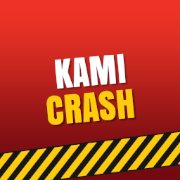
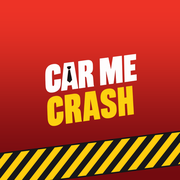
CARME crash: the site under the game's new name
The game is now CARME crash: the name, the title and the new icon on every
page. Photos are the faces of the driver and the salesman beside them now,
not the posts and the roof, and the pages say so; the privacy policy also
covers saved videos. The photo rules page goes up with it.

diff --git a/rules.html b/rules.html
@@ -1,0 +1,129 @@
+<!doctype html>
+<html lang="zh-Hant-TW">
+<head>
+  <meta charset="utf-8">
+  <meta name="viewport" content="width=device-width, initial-scale=1">
+  <title>照片使用規範 Photo Rules — CARME crash</title>
+  <meta name="description" content="CARME crash 的照片使用規範：只放你有權使用的照片，不放裸露、暴力、仇恨或未經同意的他人照片。Photo rules of CARME crash.">
+  <meta name="theme-color" content="#121215">
+  <link rel="icon" type="image/png" href="assets/icon-64.png">
+  <link rel="apple-touch-icon" href="assets/icon-180.png">
+  <link rel="preconnect" href="https://fonts.googleapis.com">
+  <link rel="preconnect" href="https://fonts.gstatic.com" crossorigin>
+  <link href="https://fonts.googleapis.com/css2?family=Anton&family=Noto+Sans+TC:wght@400;700;900&display=swap" rel="stylesheet">
+  <link rel="stylesheet" href="styles.css">
+</head>
+<body>
+
+  <div class="hazard" aria-hidden="true"></div>
+
+  <header class="bar">
+    <div class="wrap">
+      <a class="brand" href="./"><img src="assets/icon-180.png" alt="">CARME <span>crash</span></a>
+      <nav class="links">
+        <a class="optional" href="./">首頁</a>
+        <a href="rules.html" aria-current="page">使用規範</a>
+        <a href="privacy.html">隱私權政策</a>
+      </nav>
+    </div>
+  </header>
+
+  <main class="doc">
+
+    <h1>照片使用規範<br>Photo Rules</h1>
+    <p class="meta">生效日期：2026 年 10 月 5 日 · Effective 5 October 2026</p>
+
+    <nav class="langs" aria-label="語言 Language">
+      <a href="#zh">中文</a>
+      <a href="#en">English</a>
+    </nav>
+
+    <article id="zh" lang="zh-Hant-TW">
+
+      <p>CARME crash（以下稱「本遊戲」）讓你把照片當成車上主駕和副駕業務的臉，再把撞擊的過程做成圖片或影片。為了讓大家玩得開心，又不傷害任何人，請遵守下面的規範。第一次放照片之前，本遊戲會請你同意這些規範；之後隨時可以在「設定 &gt; 照片使用規範」再看一次。</p>
+
+      <h3>可以放的照片</h3>
+      <p>你自己拍的照片、你自己的照片，或其他你有權使用的圖片，例如取得本人同意的照片、授權允許你使用的圖片。</p>
+
+      <h3>不可以放的照片</h3>
+      <ul>
+        <li>裸露、色情或帶有性暗示的照片</li>
+        <li>任何涉及未成年人的不當內容</li>
+        <li>暴力、血腥、仇恨或歧視的內容</li>
+        <li>未經本人同意的他人照片</li>
+        <li>用來霸凌、騷擾、威脅或羞辱他人的照片</li>
+        <li>侵害他人著作權、肖像權或隱私的圖片</li>
+        <li>其他違反你所在地法律的內容</li>
+      </ul>
+
+      <h3>照片放在哪裡</h3>
+      <p>照片只在你的手機上處理，存在本遊戲自己的儲存空間，不會上傳到我們的伺服器，我們也看不到。你可以隨時在遊戲裡把照片拿掉。詳見<a href="privacy.html">隱私權政策</a>。</p>
+
+      <h3>分享的內容由你負責</h3>
+      <p>本遊戲做出的圖片和影片，只有在你按下儲存或分享時才會離開遊戲。要不要分享、分享到哪裡由你決定。分享出去的內容由你自己負責，請遵守法律和各平台的社群規範。</p>
+
+      <h3>違反規範</h3>
+      <p>違反本規範所引起的糾紛或損害，由放照片和分享內容的使用者自行負責。如果你發現有人用本遊戲做出的圖片或影片騷擾或傷害你，請直接向刊登該內容的平台檢舉；需要協助時，也可以寫信給我們。</p>
+
+      <h3>規範變更</h3>
+      <p>本規範如有變更，會更新本頁並修改上方的生效日期；有重大變更時，本遊戲會請你重新同意。</p>
+
+      <h3>聯絡我們</h3>
+      <p><a href="mailto:timsucompany@gmail.com">timsucompany@gmail.com</a></p>
+
+    </article>
+
+    <hr>
+
+    <article id="en" lang="en">
+
+      <h2>English</h2>
+
+      <p>CARME crash (the "Game") lets you put photos on the faces of the driver and the salesman in the car, and turn the crash into pictures and videos. To keep it fun without hurting anyone, please follow these rules. The Game asks you to agree to them before you add your first photo; you can read them again at any time under Settings &gt; Photo rules.</p>
+
+      <h3>Photos you may use</h3>
+      <p>Photos you took, photos of yourself, or other pictures you have the right to use, such as photos of people who agreed to it, or pictures licensed for your use.</p>
+
+      <h3>Photos you may not use</h3>
+      <ul>
+        <li>Nudity, pornography or sexually suggestive photos</li>
+        <li>Any inappropriate content involving minors</li>
+        <li>Violent, gory, hateful or discriminatory content</li>
+        <li>Photos of other people without their consent</li>
+        <li>Photos meant to bully, harass, threaten or humiliate anyone</li>
+        <li>Pictures that infringe anyone's copyright, image rights or privacy</li>
+        <li>Anything else that breaks the law where you live</li>
+      </ul>
+
+      <h3>Where your photos stay</h3>
+      <p>Photos are processed only on your device and kept in the Game's own storage. They are not uploaded to our servers and we cannot see them. You can remove them in the Game at any time. See the <a href="privacy.html#en">Privacy Policy</a>.</p>
+
+      <h3>You are responsible for what you share</h3>
+      <p>Pictures and videos made by the Game leave it only when you tap Save or Share, and you decide whether and where to share them. You are responsible for what you share; please follow the law and each platform's community guidelines.</p>
+
+      <h3>Breaking the rules</h3>
+      <p>Users who add photos or share content in breach of these rules are responsible for any dispute or harm that results. If someone uses pictures or videos made with the Game to harass or hurt you, please report it to the platform where it was posted; you can also write to us for help.</p>
+
+      <h3>Changes</h3>
+      <p>If these rules change, this page will be updated and the effective date above changed; after a significant change the Game will ask you to agree again.</p>
+
+      <h3>Contact</h3>
+      <p><a href="mailto:timsucompany@gmail.com">timsucompany@gmail.com</a></p>
+
+    </article>
+
+  </main>
+
+  <footer>
+    <div class="wrap">
+      <span>© 2026 timsucompany · CARME crash</span>
+      <nav>
+        <a href="./">首頁 Home</a>
+        <a href="privacy.html">隱私權政策 Privacy Policy</a>
+        <a href="mailto:timsucompany@gmail.com">聯絡我們 Contact</a>
+      </nav>
+    </div>
+  </footer>
+
+</body>
+</html>

diff --git a/index.html b/index.html
@@ -3,11 +3,11 @@
 <head>
   <meta charset="utf-8">
   <meta name="viewport" content="width=device-width, initial-scale=1">
-  <title>KAMI crash — 15 秒把車撞到最爛</title>
-  <meta name="description" content="KAMI crash：15 秒內把車撞得越爛越好。放上照片、衝向柱子，再把戰果分享給朋友。Wreck the car as hard as you can in 15 seconds.">
+  <title>CARME crash — 15 秒把車撞到最爛</title>
+  <meta name="description" content="CARME crash：試駕新車，15 秒內把它撞得越爛越好。把你和朋友的臉放上車，再把戰果分享給朋友。Take the new car for a test drive and wreck it as hard as you can in 15 seconds.">
   <meta name="theme-color" content="#121215">
   <meta property="og:type" content="website">
-  <meta property="og:title" content="KAMI crash">
+  <meta property="og:title" content="CARME crash">
   <meta property="og:description" content="15 秒內把車撞得越爛越好。Wreck the car as hard as you can in 15 seconds.">
   <link rel="icon" type="image/png" href="assets/icon-64.png">
   <link rel="apple-touch-icon" href="assets/icon-180.png">
@@ -22,10 +22,11 @@
 
   <header class="bar">
     <div class="wrap">
-      <a class="brand" href="./"><img src="assets/icon-180.png" alt="">KAMI <span>crash</span></a>
+      <a class="brand" href="./"><img src="assets/icon-180.png" alt="">CARME <span>crash</span></a>
       <nav class="links">
         <a class="optional" href="#features">特色</a>
         <a class="optional" href="#share">分享</a>
+        <a href="rules.html">使用規範</a>
         <a href="privacy.html">隱私權政策</a>
       </nav>
     </div>
@@ -35,7 +36,7 @@
 
     <div class="wrap hero">
       <div>
-        <h1 class="title">Kami<span>Crash</span></h1>
+        <h1 class="title">Carme<span>Crash</span></h1>
         <p class="tagline">15 秒內，把車撞得越爛越好。</p>
         <p class="tagline-en">Wreck the car as hard as you can in 15 seconds.</p>
         <div class="stores">
@@ -68,9 +69,9 @@
           </article>
           <article class="card">
             <div class="mark">03</div>
-            <h3>放上你的照片</h3>
-            <p>車頂貼自己，柱子貼上想撞的照片，然後油門踩到底。</p>
-            <span class="en">Your photos on the car and the posts</span>
+            <h3>放上你們的臉</h3>
+            <p>主駕放你自己，副駕的業務放朋友或寵物的臉，然後油門踩到底。車撞爛了？業務也只能說：賀成交！</p>
+            <span class="en">Your face at the wheel, a friend's on the salesman</span>
           </article>
           <article class="card">
             <div class="mark">04</div>
@@ -88,7 +89,7 @@
         <p class="lead">每一局都能做成三種圖，選一張存到相簿，傳給朋友看你撞了幾 %。</p>
         <div class="looks">
           <figure>
-            <img src="assets/shot-original.jpg" alt="原圖樣式：撞爛的車，角落有 KAMI CRASH 字樣" loading="lazy" width="1280" height="720">
+            <img src="assets/shot-original.jpg" alt="原圖樣式：撞爛的車，角落有遊戲標誌" loading="lazy" width="1280" height="720">
             <figcaption>原圖<small>Original</small></figcaption>
           </figure>
           <figure>
@@ -96,7 +97,7 @@
             <figcaption>濾鏡<small>Film filter with a stamp</small></figcaption>
           </figure>
           <figure>
-            <img src="assets/shot-poster.jpg" alt="海報樣式：KAMI CRASH 標題、撞爛的車、兩張拍立得照片和大大的損壞百分比" loading="lazy" width="864" height="1080">
+            <img src="assets/shot-poster.jpg" alt="海報樣式：遊戲標題、撞爛的車、兩張拍立得照片和大大的損壞百分比" loading="lazy" width="864" height="1080">
             <figcaption>海報<small>Poster</small></figcaption>
           </figure>
         </div>
@@ -108,7 +109,7 @@
         <h2>怎麼玩</h2>
         <p class="lead">簡單到一隻手就能玩。</p>
         <div class="steps">
-          <div class="step"><h3>放上照片</h3><p>車頂和柱子各放一張，也可以略過。</p></div>
+          <div class="step"><h3>放上照片</h3><p>主駕和副駕業務的臉各放一張，也可以略過。</p></div>
           <div class="step"><h3>15 秒撞爛它</h3><p>加速、甩尾、撞上去，能撞多爛就撞多爛。</p></div>
           <div class="step"><h3>看世界排名、分數、分享</h3><p>損壞百分比就是分數，和全世界比排名，破紀錄就存圖炫耀。</p></div>
         </div>
@@ -119,8 +120,9 @@
 
   <footer>
     <div class="wrap">
-      <span>© 2026 timsucompany · KAMI crash</span>
+      <span>© 2026 timsucompany · CARME crash</span>
       <nav>
+        <a href="rules.html">使用規範 Photo Rules</a>
         <a href="privacy.html">隱私權政策 Privacy Policy</a>
         <a href="mailto:timsucompany@gmail.com">聯絡我們 Contact</a>
       </nav>

diff --git a/privacy.html b/privacy.html
@@ -3,8 +3,8 @@
 <head>
   <meta charset="utf-8">
   <meta name="viewport" content="width=device-width, initial-scale=1">
-  <title>隱私權政策 Privacy Policy — KAMI crash</title>
-  <meta name="description" content="KAMI crash 的隱私權政策：照片只留在你的手機上；廣告由 Google AdMob 提供。Privacy policy of KAMI crash.">
+  <title>隱私權政策 Privacy Policy — CARME crash</title>
+  <meta name="description" content="CARME crash 的隱私權政策：照片只留在你的手機上；廣告由 Google AdMob 提供。Privacy policy of CARME crash.">
   <meta name="theme-color" content="#121215">
   <link rel="icon" type="image/png" href="assets/icon-64.png">
   <link rel="apple-touch-icon" href="assets/icon-180.png">
@@ -19,9 +19,10 @@
 
   <header class="bar">
     <div class="wrap">
-      <a class="brand" href="./"><img src="assets/icon-180.png" alt="">KAMI <span>crash</span></a>
+      <a class="brand" href="./"><img src="assets/icon-180.png" alt="">CARME <span>crash</span></a>
       <nav class="links">
-        <a href="./">首頁</a>
+        <a class="optional" href="./">首頁</a>
+        <a href="rules.html">使用規範</a>
         <a href="privacy.html" aria-current="page">隱私權政策</a>
       </nav>
     </div>
@@ -30,7 +31,7 @@
   <main class="doc">
 
     <h1>隱私權政策<br>Privacy Policy</h1>
-    <p class="meta">生效日期：2026 年 10 月 1 日 · Effective 1 October 2026</p>
+    <p class="meta">生效日期：2026 年 10 月 5 日 · Effective 5 October 2026</p>
 
     <nav class="langs" aria-label="語言 Language">
       <a href="#zh">中文</a>
@@ -39,13 +40,13 @@
 
     <article id="zh" lang="zh-Hant-TW">
 
-      <p>KAMI crash（以下稱「本遊戲」）由 timsucompany 開發。本政策說明本遊戲會處理哪些資料、怎麼處理。</p>
+      <p>CARME crash（以下稱「本遊戲」）由 timsucompany 開發。本政策說明本遊戲會處理哪些資料、怎麼處理。</p>
 
       <h3>你選的照片</h3>
-      <p>你放到車頂或柱子上的照片只在你的手機上處理，並存在本遊戲自己的儲存空間，方便下次使用。我們不會上傳、收集或分享這些照片。你可以隨時在遊戲裡把照片拿掉。</p>
+      <p>你放在主駕和副駕業務臉上的照片只在你的手機上處理，並存在本遊戲自己的儲存空間，方便下次使用。我們不會上傳、收集或分享這些照片。你可以隨時在遊戲裡把照片拿掉。</p>
 
-      <h3>分享圖</h3>
-      <p>只有在你按下「存到相簿」時，本遊戲才會把分享圖存進你手機的相簿；要不要分享、分享到哪個 App，都由你自己決定。</p>
+      <h3>分享圖和影片</h3>
+      <p>只有在你按下「存到相簿」或「存影片」時，本遊戲才會把分享圖或影片存進你手機的相簿；要不要分享、分享到哪個 App，都由你自己決定。</p>
 
       <h3>遊戲資料</h3>
       <p>最佳紀錄、設定（例如震動開關）和每天換照片的次數只存在你的手機上。</p>
@@ -83,13 +84,13 @@
 
       <h2>English</h2>
 
-      <p>KAMI crash (the "Game") is developed by timsucompany. This policy explains what data the Game handles and how.</p>
+      <p>CARME crash (the "Game") is developed by timsucompany. This policy explains what data the Game handles and how.</p>
 
       <h3>Photos you choose</h3>
-      <p>Photos you put on the roof or the posts are processed only on your device and kept in the Game's own storage so they are there next time. We do not upload, collect or share them. You can remove them in the Game at any time.</p>
+      <p>Photos you put on the faces of the driver and the salesman are processed only on your device and kept in the Game's own storage so they are there next time. We do not upload, collect or share them. You can remove them in the Game at any time.</p>
 
-      <h3>Share pictures</h3>
-      <p>The Game saves a share picture to your photo library only when you tap Save, and you decide whether to share it and with which app.</p>
+      <h3>Share pictures and videos</h3>
+      <p>The Game saves a share picture or a video to your photo library only when you tap Save, and you decide whether to share it and with which app.</p>
 
       <h3>Game data</h3>
       <p>Your best score, your settings (such as vibration on or off) and the day's photo changes are stored only on your device.</p>
@@ -125,9 +126,10 @@
 
   <footer>
     <div class="wrap">
-      <span>© 2026 timsucompany · KAMI crash</span>
+      <span>© 2026 timsucompany · CARME crash</span>
       <nav>
         <a href="./">首頁 Home</a>
+        <a href="rules.html">使用規範 Photo Rules</a>
         <a href="mailto:timsucompany@gmail.com">聯絡我們 Contact</a>
       </nav>
     </div>

diff --git a/styles.css b/styles.css
@@ -1,4 +1,4 @@
-/* KAMI crash — site styles. Dark like the game's poster: charcoal, hazard yellow, crash red. */
+/* CARME crash — site styles. Dark like the game's poster: charcoal, hazard yellow, crash red. */
 
 :root {
   --bg: #121215;
@@ -54,7 +54,7 @@ a { color: var(--yellow); text-underline-offset: 3px; }
 
 .links { display: flex; gap: 20px; font-size: 15px; }
 
-.links a { color: var(--muted); text-decoration: none; }
+.links a { color: var(--muted); text-decoration: none; white-space: nowrap; }
 
 .links a:hover, .links a[aria-current="page"] { color: var(--ink); }
 
